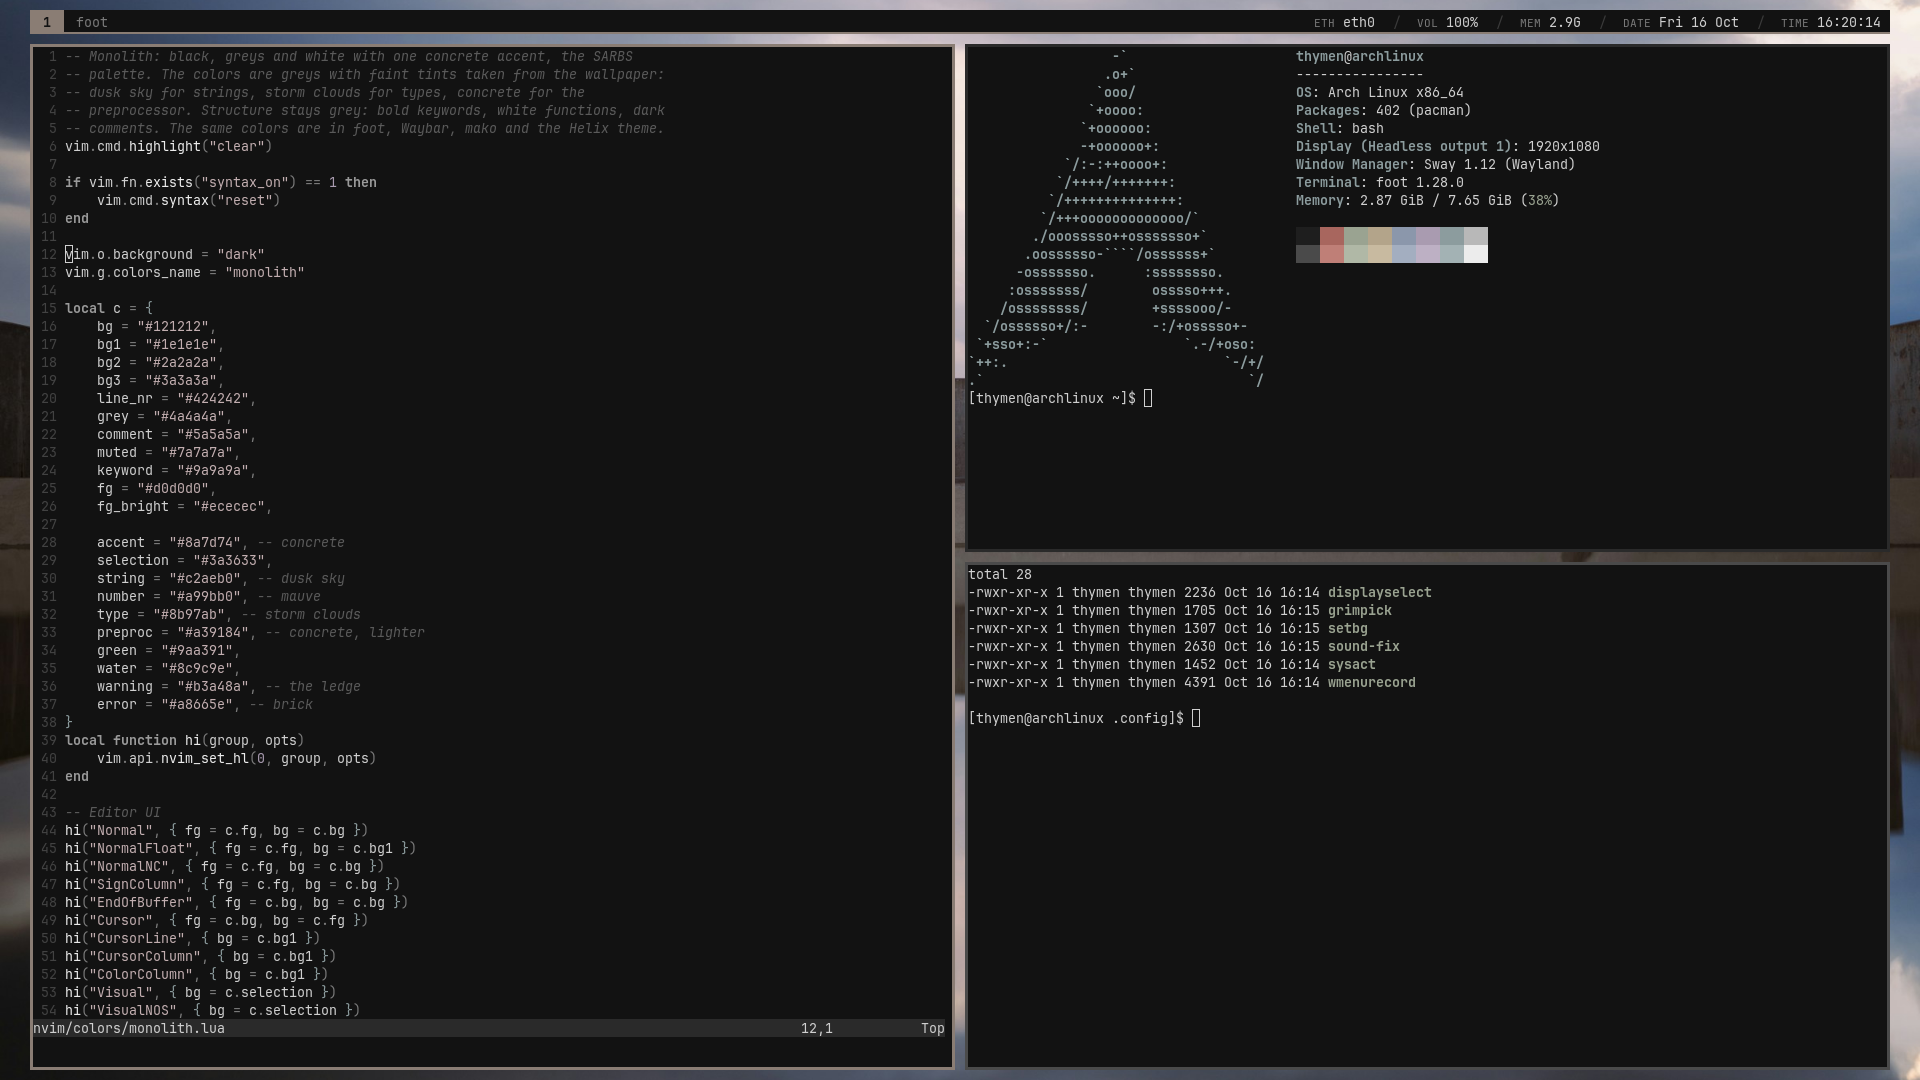
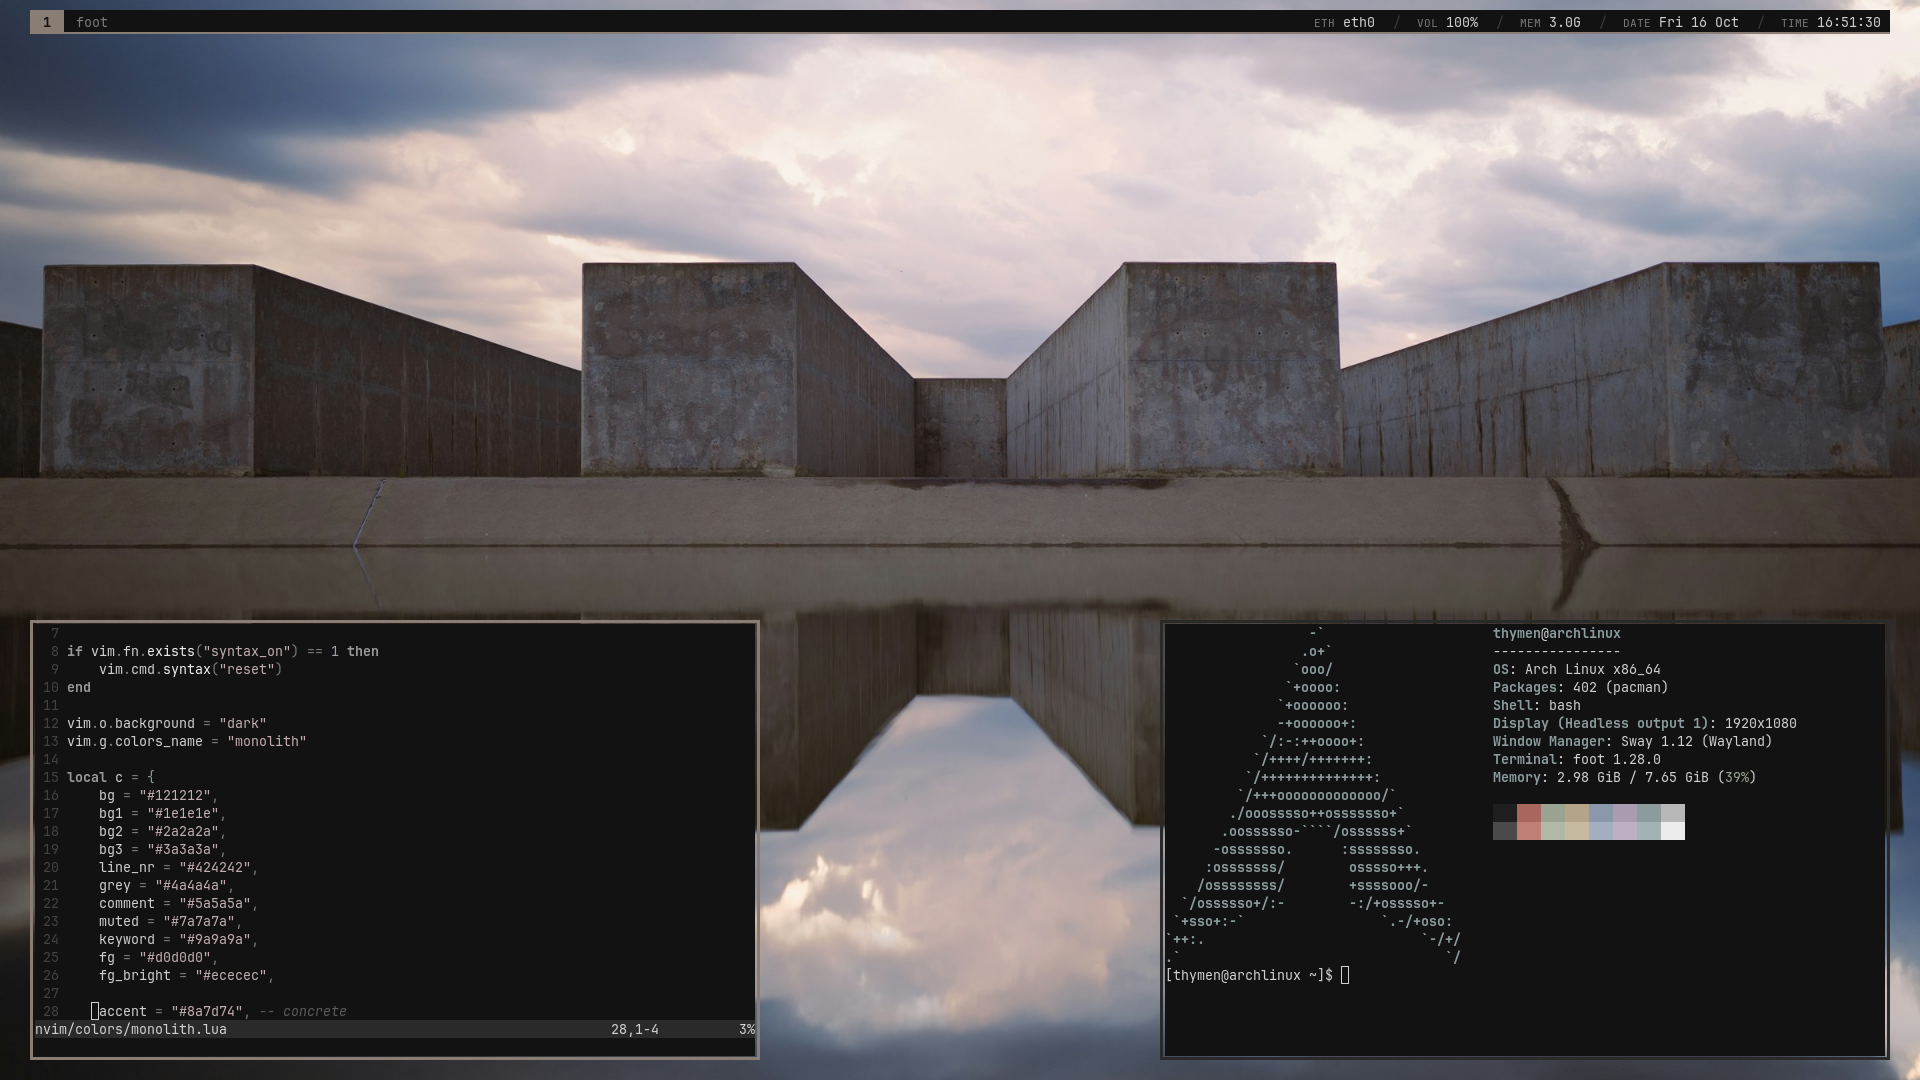
Update screenshot and preview

diff --git a/README.md b/README.md
@@ -1,6 +1,6 @@
 # Sway Auto Rice Bootstrapping Script (SARBS)
 
-![sway with Neovim, fastfetch and a shell](screenshot.png)
+![sway with Neovim and fastfetch floating beside the concrete blocks of the wallpaper](screenshot.png)
 
 My dotfiles for sway, Waybar, foot, mako, wmenu, swaylock and swaynag, with Neovim and Helix themes. Everything uses **Monolith**: a flat, mostly black, grey and white palette with one concrete accent, made around the brutalist wallpaper. It sticks to sway's own tools: wmenu instead of rofi, and the default sway key bindings with a few additions.
 
